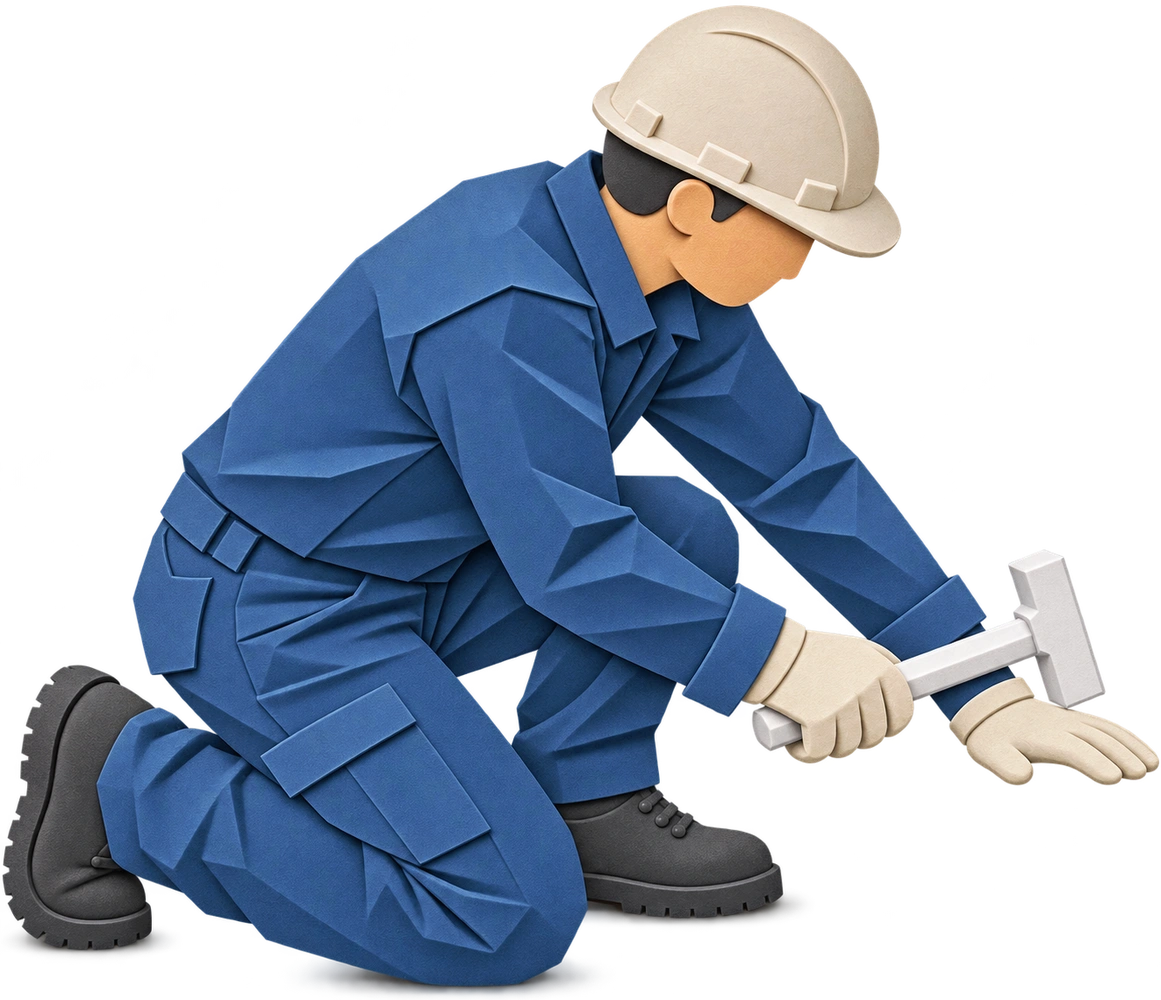
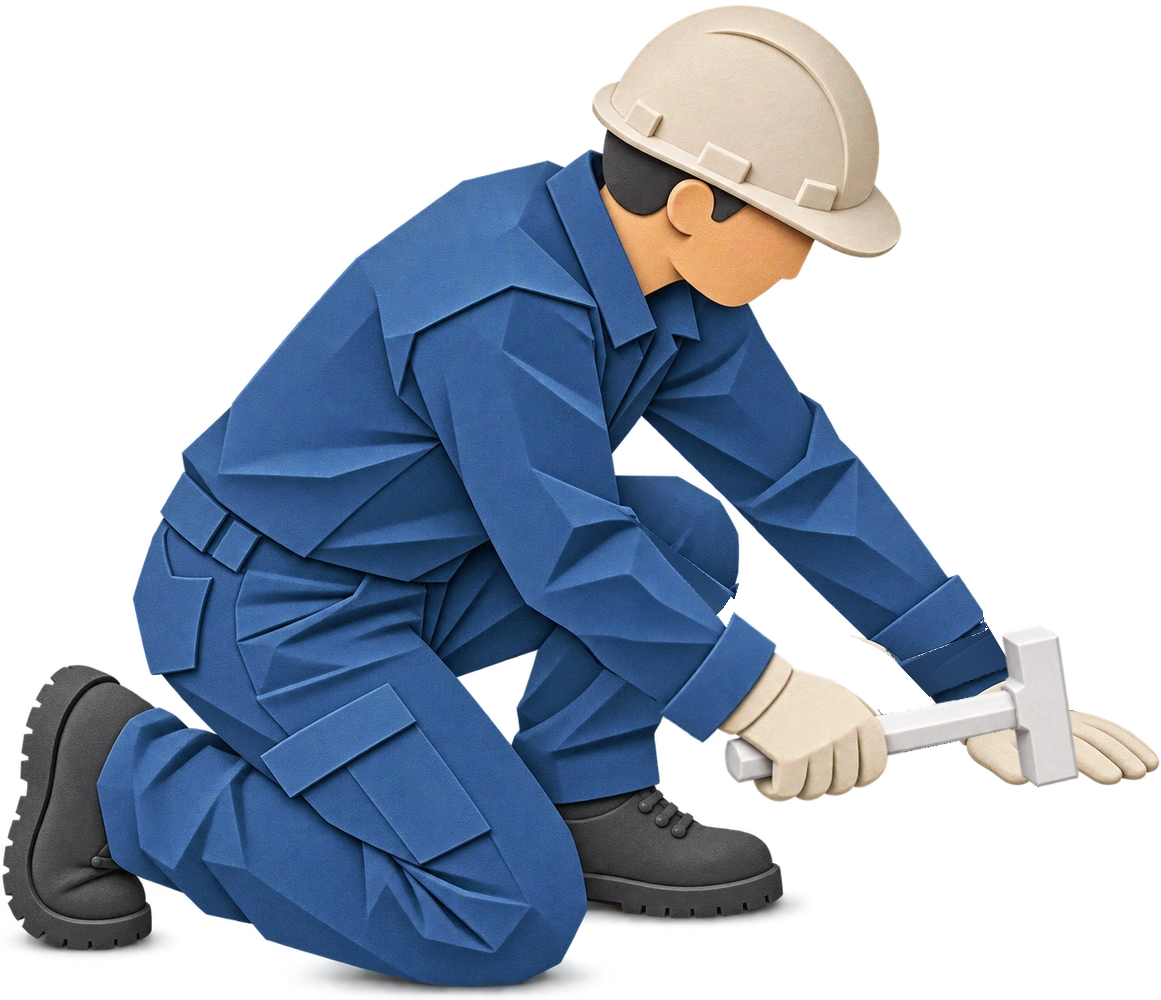
sfda

Changed region(s): [[0.4961, 0.527, 0.9612, 0.806], [0.5271, 0.496, 0.5581, 0.527]]

diff --git a/js/hex.js b/js/hex.js
@@ -580,6 +580,7 @@ const HEX_IS_PRODUCTION=HEX_HOSTS.PRODUCTION.indexOf(location.hostname)!==-1;
     if(!/^[^/\\?#]+\.(?:avif|gif|jpe?g|png|svg|webp)(?:[?#].*)?$/i.test(file))return null;
     var url=new URL(file,imageRoot);
     if(/^sakan1\.webp(?=[?#]|$)/i.test(file))url.searchParams.set('v','20261127-arm-frames-2');
+    if(/^block1\.webp(?=[?#]|$)/i.test(file))url.searchParams.set('v','20261127-hammer-frames');
     if(sceneAsset.test(file)){
       var version=/^(?:drawing|tree|underplant)/i.test(file)?'20261118-cropped':'20261118-restored';
       url.searchParams.set('v',version);
@@ -595,7 +596,7 @@ const HEX_IS_PRODUCTION=HEX_HOSTS.PRODUCTION.indexOf(location.hostname)!==-1;
         var current=image.getAttribute('src')||'';
         if(current.indexOf(imageRoot)===0){
           var filename=current.slice(imageRoot.length);
-          url=/^(?:(?:aluminum|pruning|sakan|block|supervisor)\.(?:png|webp)|sakan1\.webp)(?=[?#]|$)/i.test(filename)
+          url=/^(?:(?:aluminum|pruning|sakan|block|supervisor)\.(?:png|webp)|(?:sakan|block)1\.webp)(?=[?#]|$)/i.test(filename)
             ?resolve(filename):current;
         }
       }
